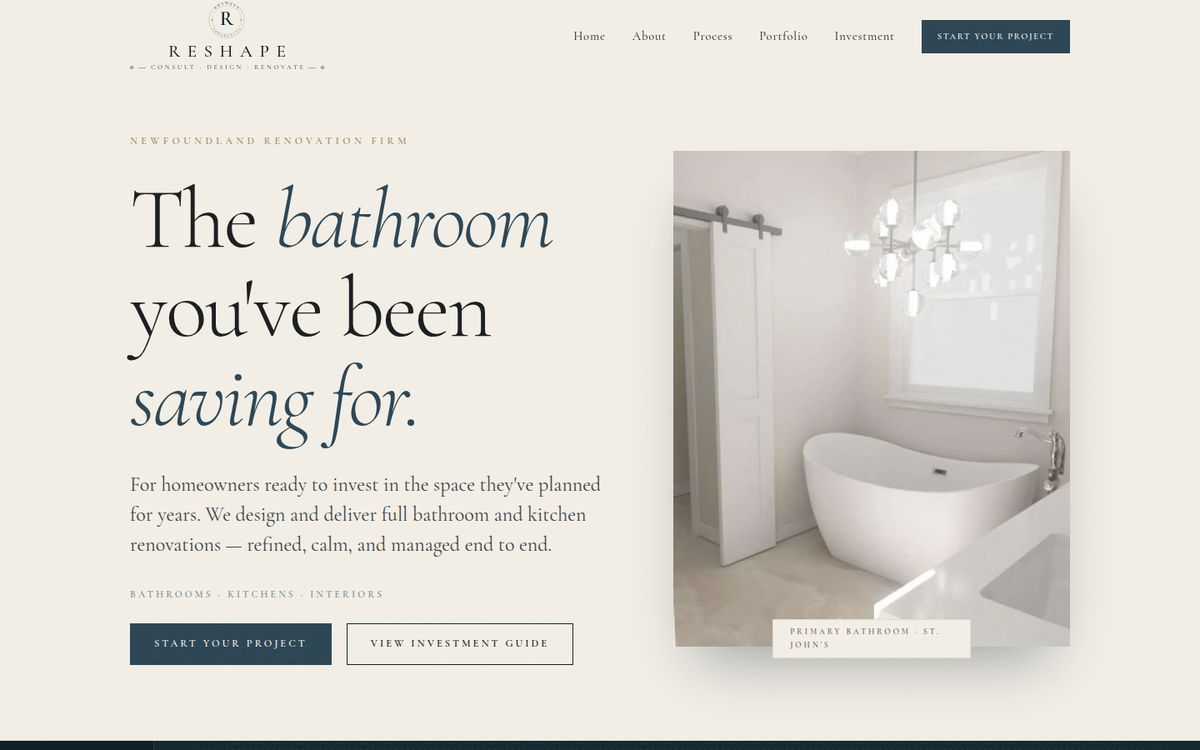
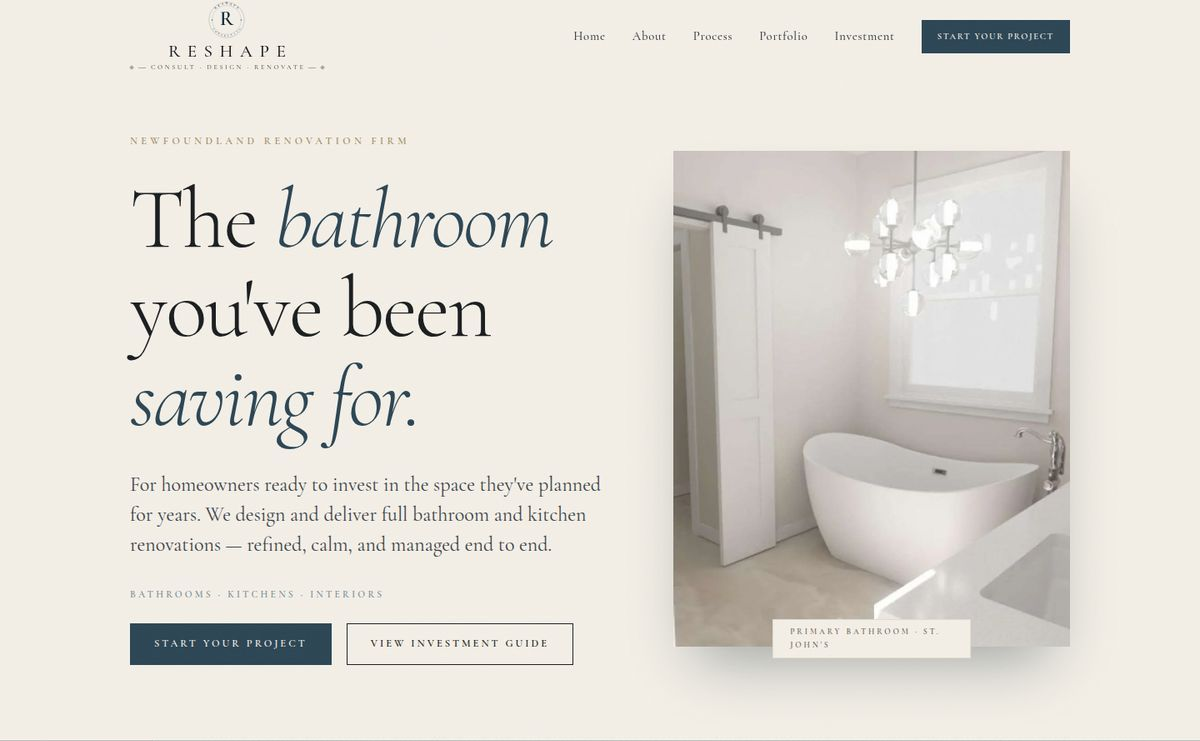
Make both client photo frames the same box.
Crop the dark bar off the Reshape screenshot and paint each photo edge to edge in a shared 16/10 frame.

diff --git a/index.html b/index.html
@@ -516,9 +516,9 @@ nav{
 /* CLIENTS */
 #clients{scroll-margin-top:90px;}
 .client-grid{
-  display:grid;grid-template-columns:1fr 1fr;
-  grid-template-rows:auto auto auto auto auto auto auto auto;
-  column-gap:20px;margin-top:56px;align-items:stretch;
+  display:grid;grid-template-columns:minmax(0,1fr) minmax(0,1fr);
+  grid-template-rows:172px auto auto auto auto auto auto auto;
+  column-gap:20px;margin-top:56px;align-items:stretch;justify-items:stretch;
 }
 .client-card{display:contents;}
 .client-card > *{min-width:0;}
@@ -527,14 +527,14 @@ nav{
 .client-bg{grid-row:1 / span 8;z-index:0;background:var(--bg-mid);border-bottom:2px solid transparent;pointer-events:none;}
 .client-card:hover > .client-bg,.client-card:focus-within > .client-bg{background:var(--bg-light);border-bottom-color:var(--cyan);}
 .client-logo,.client-shot-link,.client-name,.client-intro,.client-svc,.client-link{position:relative;z-index:1;align-self:stretch;}
-.client-logo{grid-row:1;display:flex;align-items:center;justify-content:center;min-height:172px;height:100%;margin:0;padding:22px 28px;text-decoration:none;}
+.client-logo{grid-row:1;display:flex;align-items:center;justify-content:center;box-sizing:border-box;height:172px;min-height:172px;max-height:172px;margin:0;padding:22px 28px;overflow:hidden;text-decoration:none;}
 .client-logo-reshape{background:#F3EFE7;}
 .client-logo-ph{background:#ffffff;}
 .client-logo img{display:block;width:auto;height:auto;max-width:100%;object-fit:contain;}
 .client-logo-reshape img{width:min(280px, 86%);height:auto;}
 .client-logo-ph img{width:min(300px, 88%);height:auto;}
-.client-shot-link{grid-row:2;display:block;aspect-ratio:16 / 10;overflow:hidden;background:#111;line-height:0;}
-.client-shot{display:block;width:100%;height:100%;object-fit:cover;object-position:top center;}
+.client-shot-link{grid-row:2;position:relative;display:block;width:100%;aspect-ratio:16 / 10;margin:0;padding:0;border:0;overflow:hidden;background:transparent;line-height:0;font-size:0;}
+.client-shot{position:absolute;inset:0;display:block;width:100%;height:100%;margin:0;padding:0;border:0;object-fit:cover;object-position:top center;vertical-align:top;}
 .client-name{grid-row:3;margin:0;padding:22px 26px 0;font-family:'Barlow Condensed',sans-serif;font-weight:800;font-size:22px;letter-spacing:1px;text-transform:uppercase;line-height:1.15;}
 .client-intro{grid-row:4;margin:0;padding:6px 26px 0;font-size:14px;font-weight:400;color:var(--grey-light);line-height:1.6;}
 .client-svc{display:flex;flex-direction:column;align-items:flex-start;justify-content:flex-start;gap:8px;margin:0;padding:14px 26px 0;height:100%;}
@@ -1018,7 +1018,7 @@ footer{background:var(--bg);border-top:1px solid rgba(255,255,255,0.05);padding:
         <img src="assets/clients/reshape-logo.png" alt="" width="518" height="216">
       </a>
       <a class="client-shot-link" href="https://reshapeconsulting.ca/" target="_blank" rel="noopener noreferrer" aria-label="Reshape Consulting homepage">
-        <img class="client-shot" src="assets/clients/reshape-home.jpg" alt="Reshape Consulting homepage" width="1200" height="750">
+        <img class="client-shot" src="assets/clients/reshape-home.jpg" alt="Reshape Consulting homepage" width="1200" height="741">
       </a>
       <h3 class="client-name">Reshape Consulting</h3>
       <p class="client-intro">A bathroom and kitchen renovation firm in St. John's, with a new logo and website.</p>
